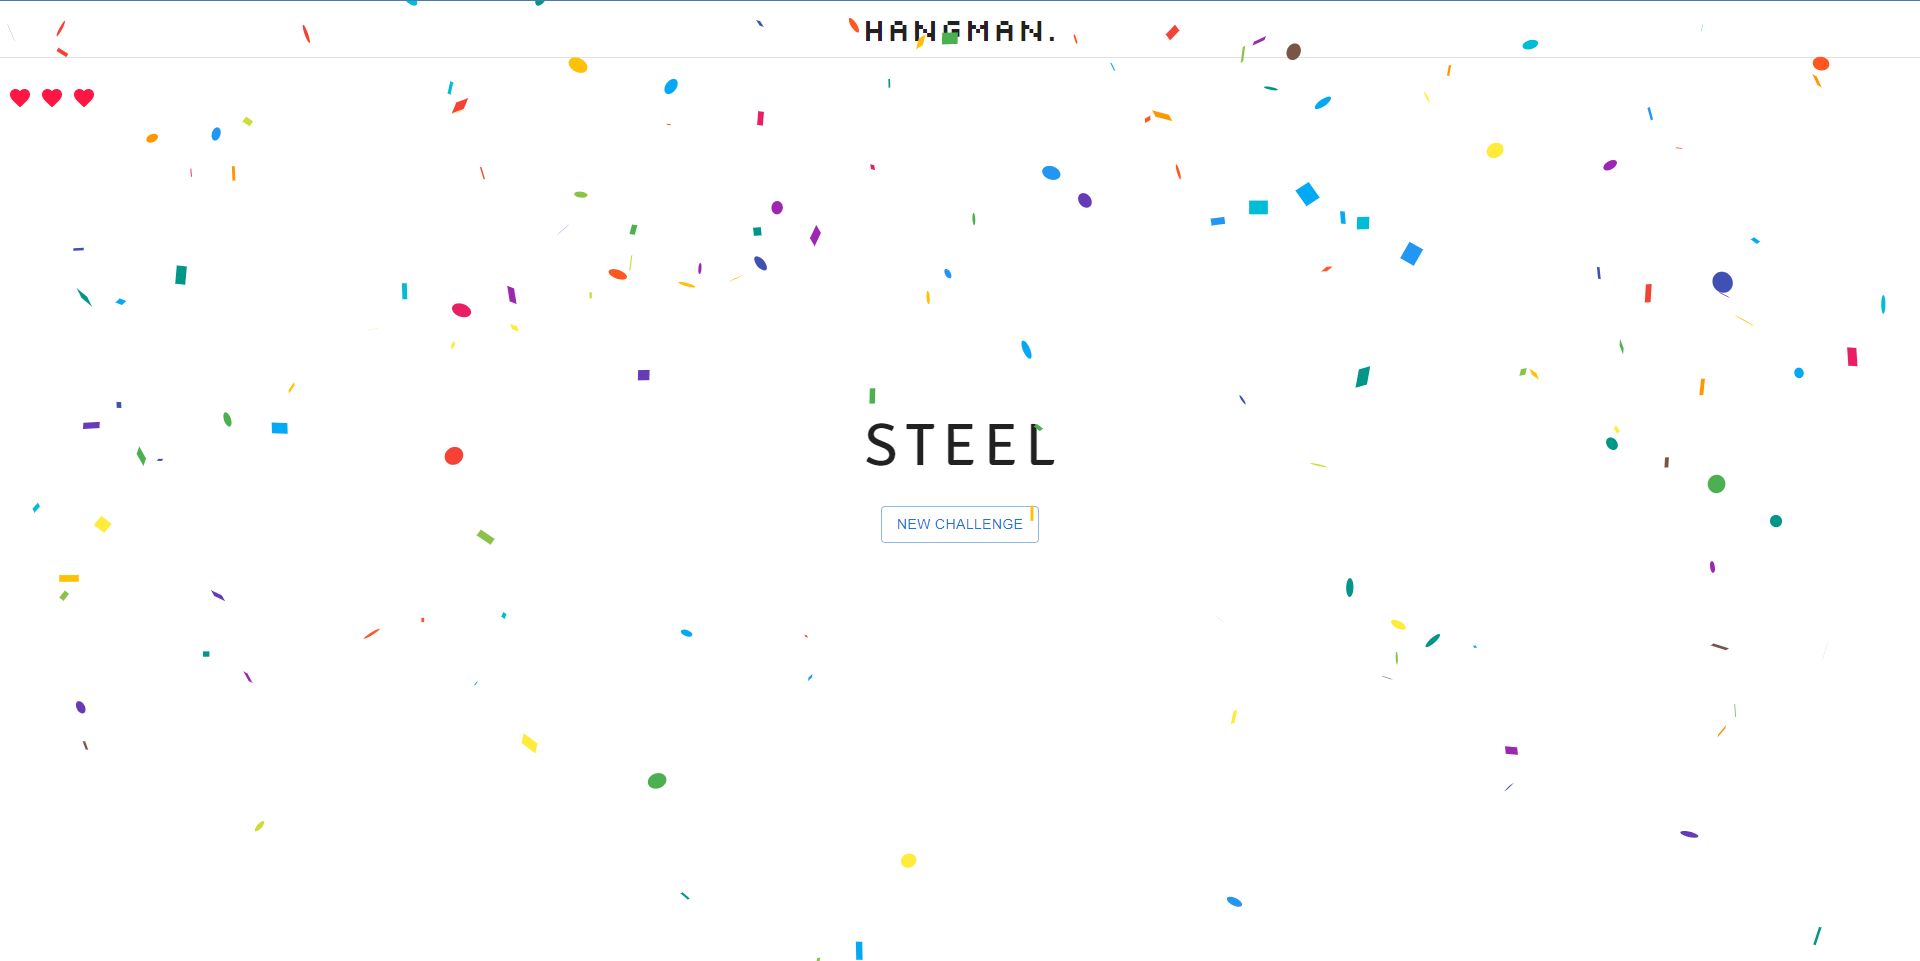
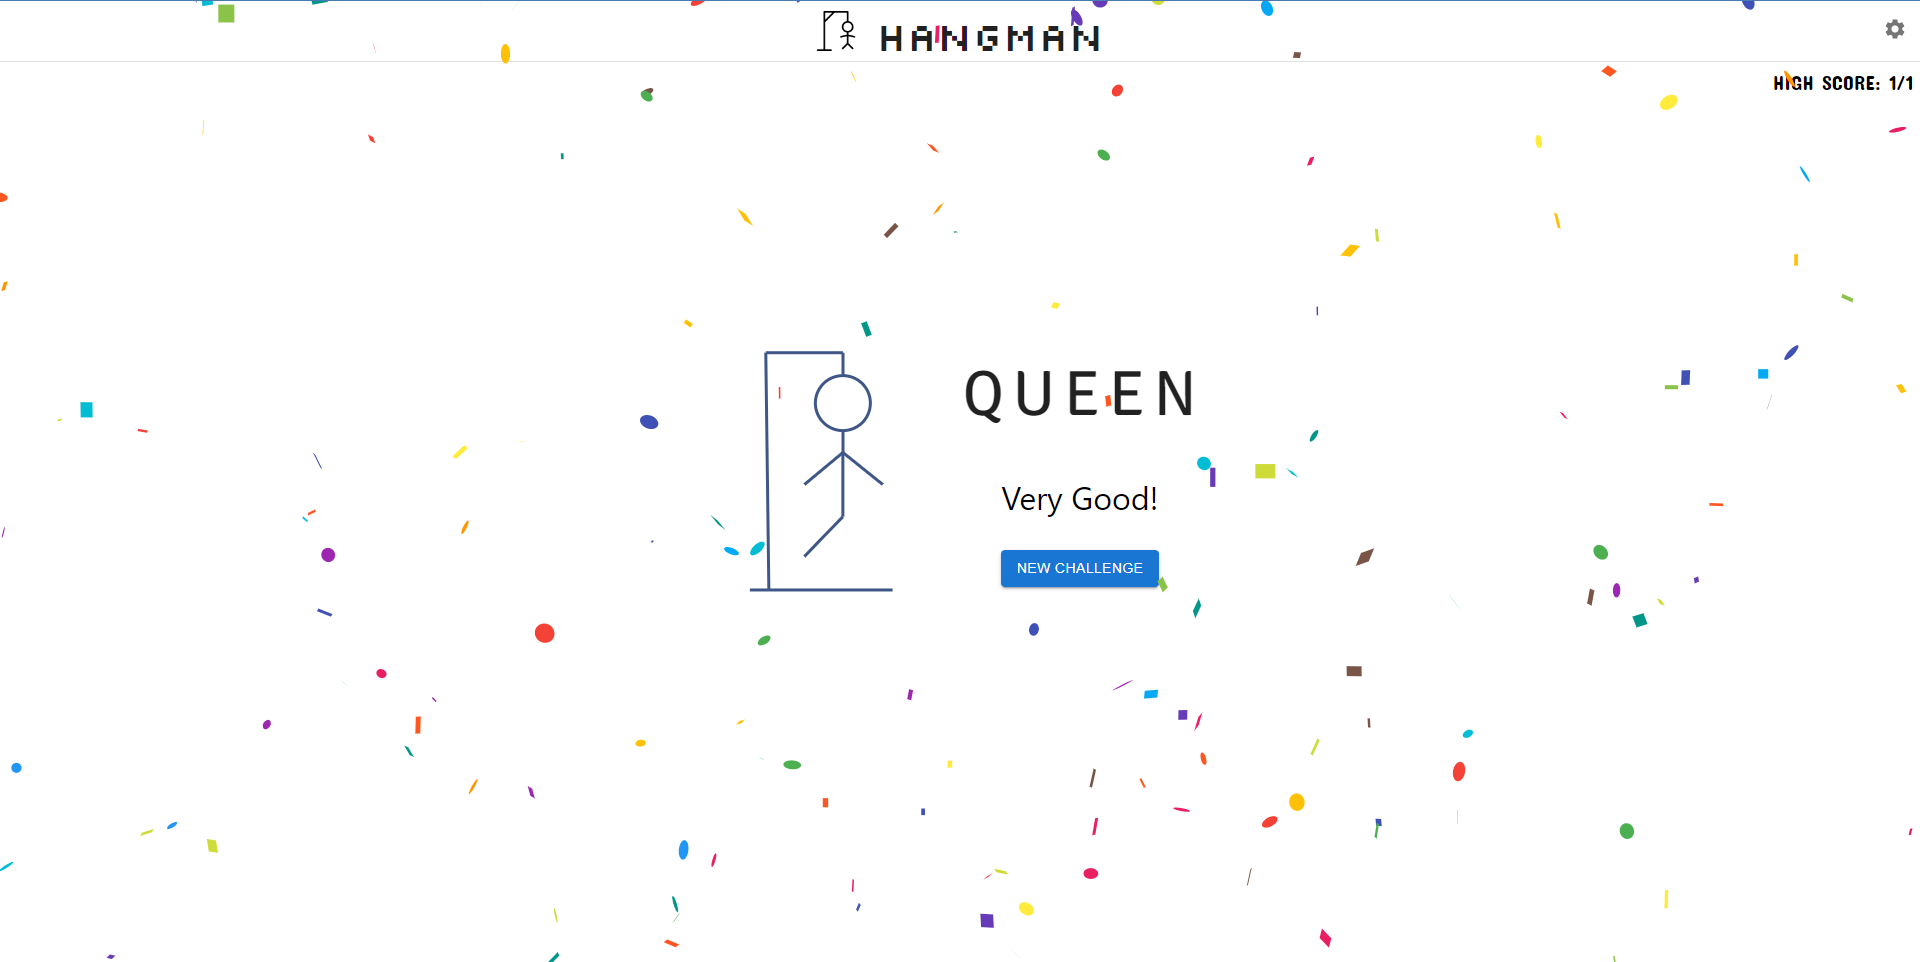
updated readme

diff --git a/README.md b/README.md
@@ -8,7 +8,7 @@ Initially a letter is randomly revealed to help you with the start.
 #### Use the **keyboard** to guess a letter.
 >![keyboard image](assets/a.png)
 
-#### The hearts on the top left corner shows your health or number of chances to guess, **So keep an eye on it.**
+#### Every time you guess a letter wrong you loose a life and the **hangman** begins to appear, piece by piece.
 > ![health bar](assets/b.png)
 
 
@@ -17,4 +17,4 @@ If your chosen letter exists in the answer, then all places in the answer where 
 #### You will win the game if you could guess the word with the given number of chances.
 >![win](assets/c.png)
 
-Solve the puzzle before you are out of **chances**.
+Solve the puzzle before the hangman dies.
